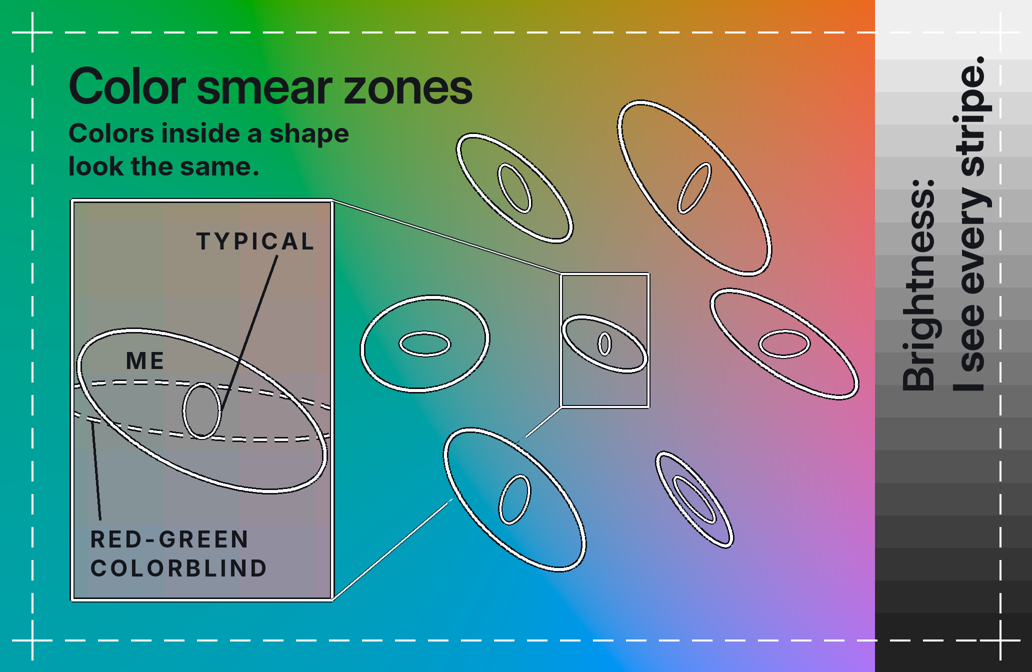
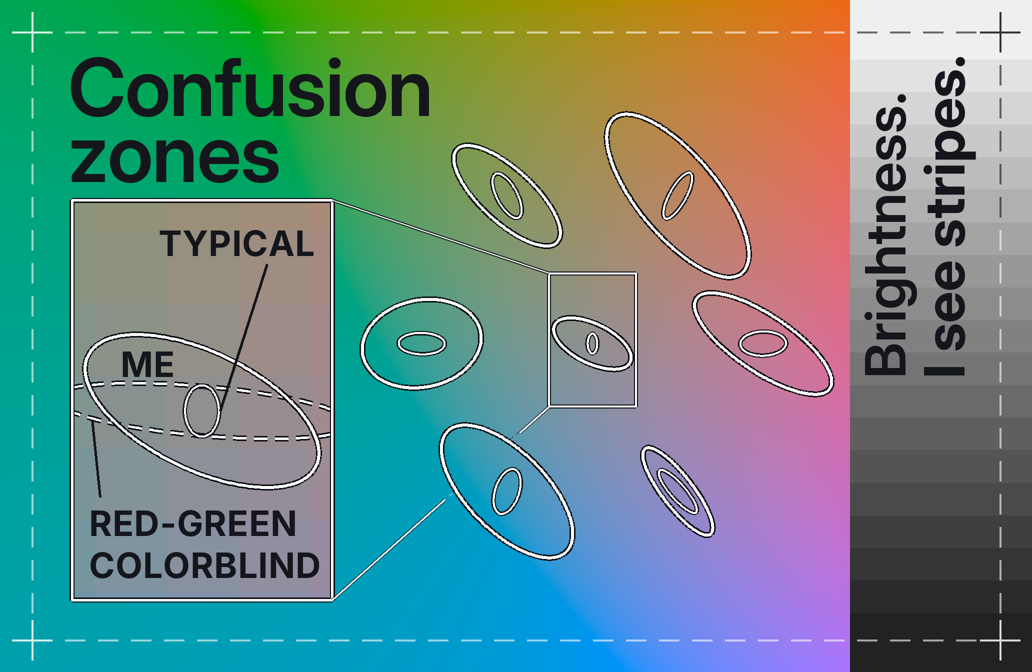
Flip from smear to confusion zone

diff --git a/src/content/blog/mapping-my-own-color-vision.md b/src/content/blog/mapping-my-own-color-vision.md
@@ -157,7 +157,7 @@ Here's where it landed. Before you read on: **how many columns of stripes do you
 
 ![Card front: a purple-to-green panel in three columns, labeled with what I see: smooth, smooth, stripes](/images/2026/10/vision/card-front.png)
 
-**Front:** Most people count two columns of stripes: the middle and the right. I count one. The middle column looks like a smooth block to me, because its steps are well within normal vision but inside my smear. (Those steps are subtle, so a dim or low-quality screen can hide them even from normal eyes. If you don't see them either, the test at the end of this post will tell you more than this card can.)
+**Front:** Most people see stripes in the middle column. I see it as a smooth gradient - same as the first column, because its steps are outisde a normal vision smear, but inside my own. (Those steps are subtle, so a dim or low-quality screen can hide them even from normal eyes. If you don't see them either, the test at the end of this post will tell you more than this card can.) The last column shows steps of exactly the same size, but in brightness only and I can see them just fine.
 
 ![Card back: my smears drawn on a color wheel, a magnified inset of the gray center comparing a typical smear, mine, and a red-green colorblind band, and a stepped brightness strip](/images/2026/10/vision/card-back.png)
 
@@ -165,7 +165,7 @@ Here's where it landed. Before you read on: **how many columns of stripes do you
 
 ## What's next
 
-There's one more piece I haven't mentioned - my central vision. It isn't blurry, it's missing entirely, replaced by a swirl of colors and patterns - like a kaleidoscope held wherever I look, eyes open or closed. It's most similar to the symptoms of Stargardt disease, which affects the macula (the center of the retina).
+There's one more piece I haven't mentioned - my central vision, which is missing entirely, replaced by a swirl of colors and patterns - like a kaleidoscope held wherever I look, eyes open or closed. It's most similar to the symptoms of Stargardt disease, which affects the macula (the center of the retina).
 
 Taken together - normal lightness, a broad loss of color sensitivity, a lean that doesn't match any known type, childhood onset, central vision loss, stable for 35 years - the pattern points at the cones (the retina's color sensors) or the macula, rather than the optics of the eye. I've sent a clinical summary to a few color vision researchers, asking about the tests that could actually find something: detailed scans of the retina, tests that measure how the cones respond electrically, and formal color testing (an anomaloscope would settle the red-green question in about ten minutes).[^tests]
 
